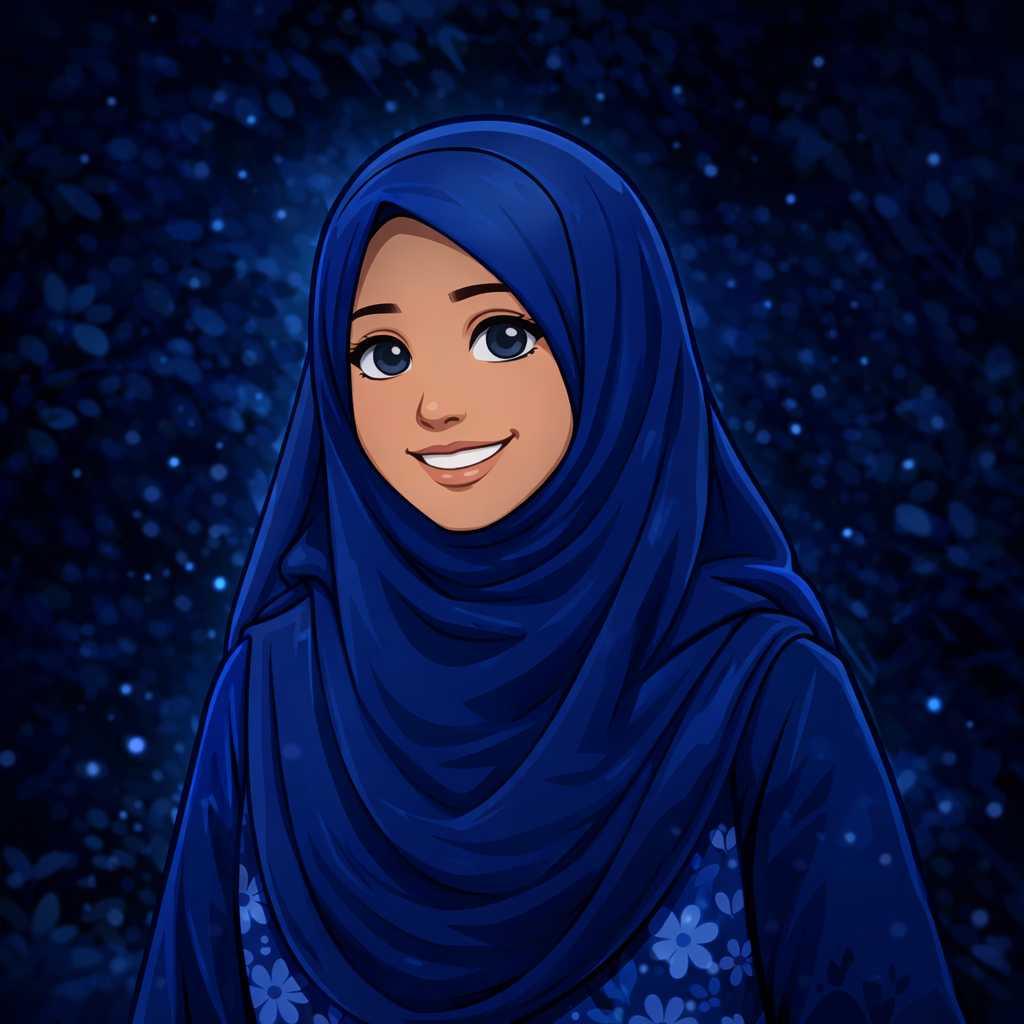
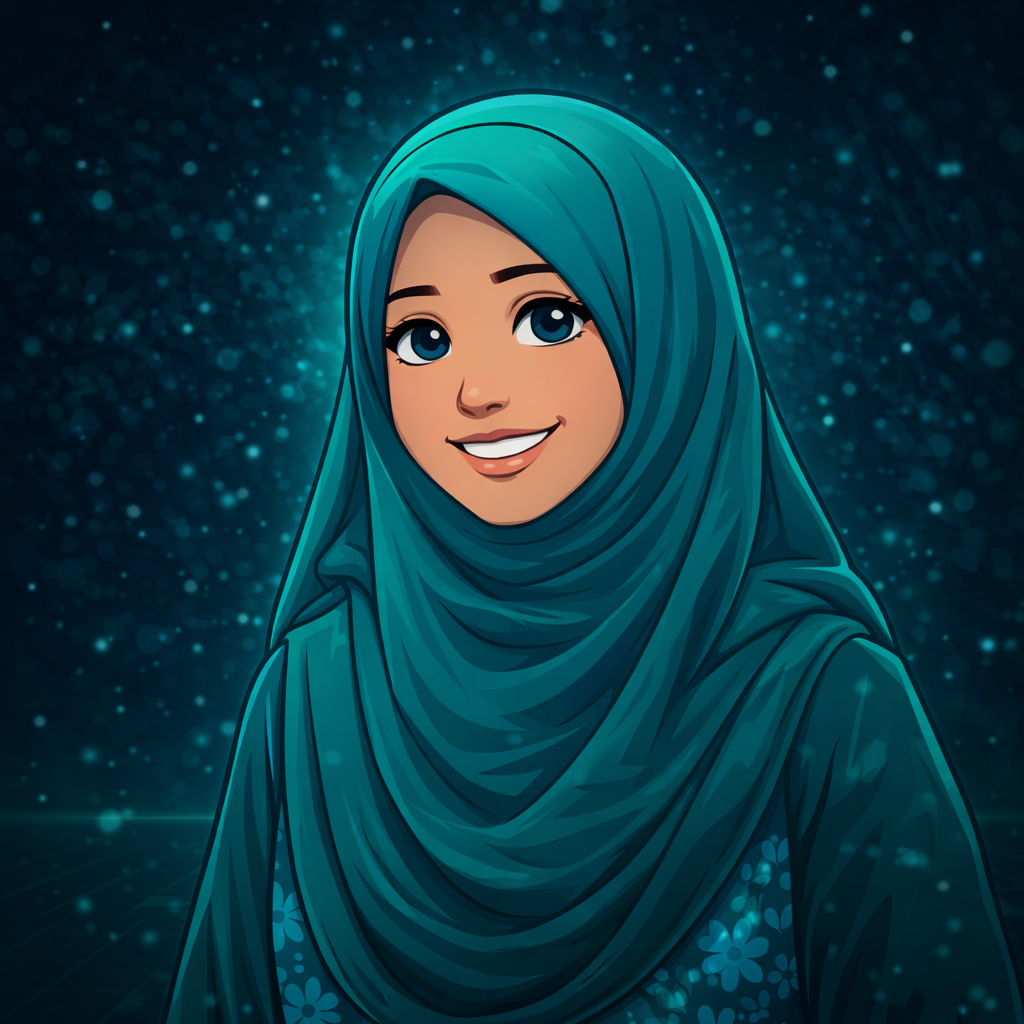
profile pic change

diff --git a/src/section/Hero.jsx b/src/section/Hero.jsx
@@ -32,7 +32,7 @@ export const Hero = () => {
       </div>
 {/* context section */}
       <div className=" container mx-auto px-6 pt-20 md:pt-28 pb-30 relative z-10 ">
-        <div className='grid lg:grid-cols-2 gap-12 items-center'>
+        <div className='grid lg:grid-cols-2 gap-12 '>
           {/* left side  */}
           <div >
             <div className="animate-fade-in">
